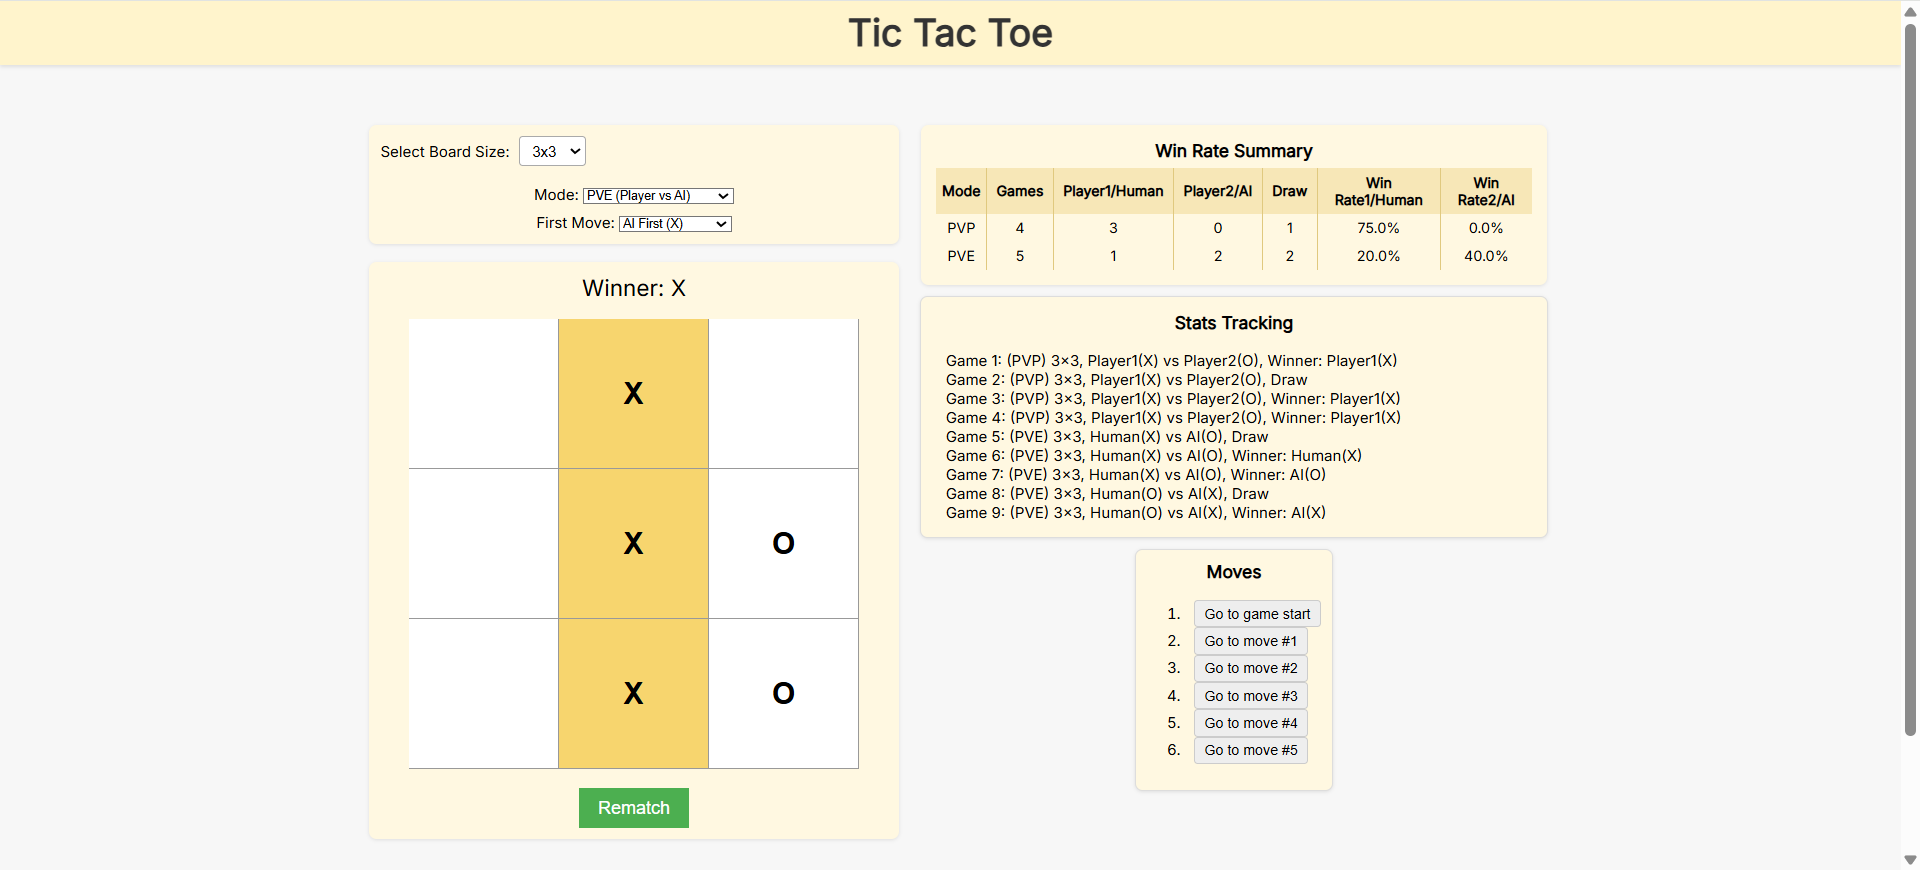
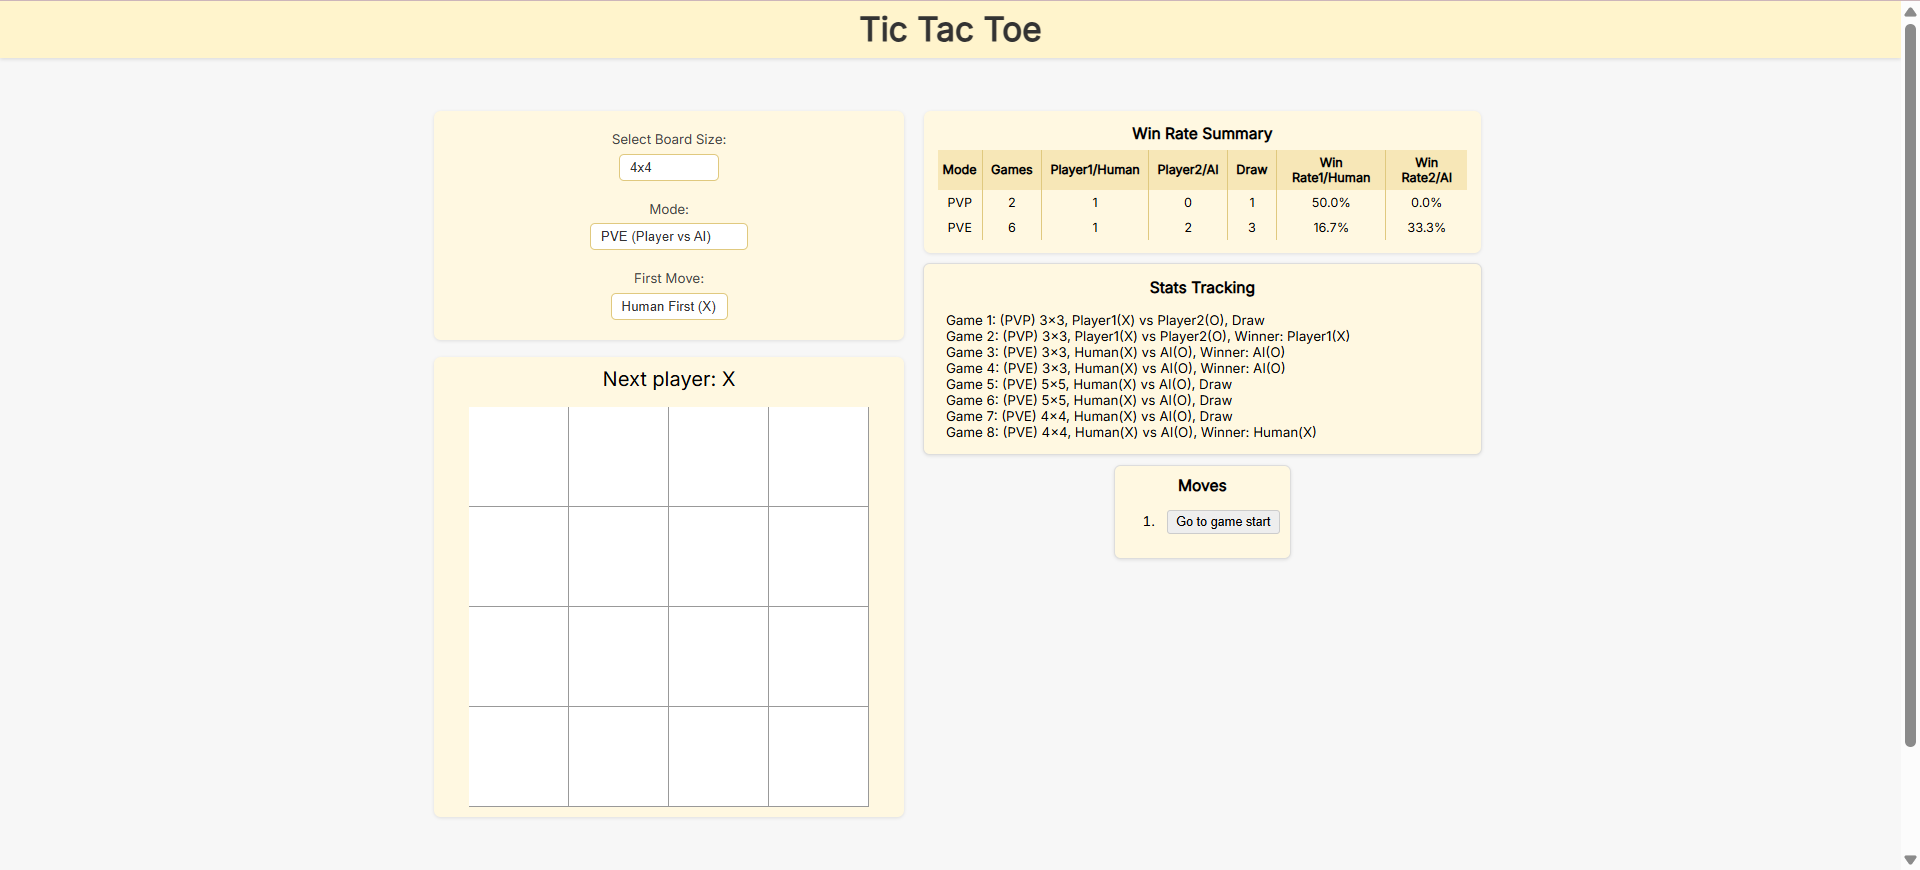
refactor: minor layout adjustments and updated UI preview images

diff --git a/src/App.jsx b/src/App.jsx
@@ -284,10 +284,11 @@ export default function Game() {
       {/* 上半部分：主游戏内容 */}
       <div className="game-top">
         <div className="game-settings">
-          <div className="board-size-selector">
+          <div className="setting-group">
             <label htmlFor="board-size">Select Board Size: </label>
             <select
               id="board-size"
+              className="setting-select"
               value={boardSize}
               onChange={(e) => handleBoardSizeChange(Number(e.target.value))}
             >
@@ -299,26 +300,26 @@ export default function Game() {
               <option value={8}>8x8</option>
             </select>
           </div>
-          <div className="mode-selector" style={{ marginTop: '10px' }}>
+          <div className="setting-group">
             <label htmlFor="mode">Mode: </label>
-            <select id="mode" value={mode} onChange={handleModeChange}>
+            <select id="mode" className="setting-select" value={mode} onChange={handleModeChange}>
               <option value="pvp">PVP (Player vs Player)</option>
               <option value="pve">PVE (Player vs AI)</option>
             </select>
           </div>
           {mode === 'pvp' && (
-            <div className="pvp-first-selector" style={{ marginTop: '10px' }}>
+            <div className="setting-group">
               <label htmlFor="pvp-first">First Move: </label>
-              <select id="pvp-first" value={pvpFirst} onChange={handlePvpFirstChange}>
+              <select id="pvp-first" className="setting-select" value={pvpFirst} onChange={handlePvpFirstChange}>
                 <option value="player1">Player1 (X)</option>
                 <option value="player2">Player2 (X)</option>
               </select>
             </div>
           )}
           {mode === 'pve' && (
-            <div className="pve-first-selector" style={{ marginTop: '10px' }}>
+            <div className="setting-group">
               <label htmlFor="pve-first">First Move: </label>
-              <select id="pve-first" value={pveFirst} onChange={handlePveFirstChange}>
+              <select id="pve-first" className="setting-select" value={pveFirst} onChange={handlePveFirstChange}>
                 <option value="human">Human First ({pveFirst === 'human' ? 'X' : 'O'})</option>
                 <option value="ai">AI First ({pveFirst === 'ai' ? 'X' : 'O'})</option>
               </select>

diff --git a/src/index.css b/src/index.css
@@ -288,6 +288,48 @@ body[data-board-size="5"] {
 .game-settings {
   flex: 1;
   min-width: 180px;
+  display: flex;
+  flex-direction: column;
+  justify-content: center;
+  align-items: center;
+  gap: 24px;
+  background-color: #fff8e1;
+  border-radius: 8px;
+  padding: 24px 12px;
+  box-shadow: 0 1px 4px rgba(0,0,0,0.1);
+}
+
+.setting-group {
+  display: flex;
+  flex-direction: column;
+  align-items: center;
+  gap: 6px;
+  width: 100%;
+}
+
+.setting-group label {
+  font-size: 1rem;
+  margin-bottom: 2px;
+  color: #444;
+}
+
+.setting-select {
+  font-size: 1rem;
+  padding: 6px 12px;
+  border-radius: 6px;
+  border: 1.5px solid #e0c97f;
+  background: #fff;
+  color: #333;
+  appearance: none;
+  outline: none;
+  box-shadow: none;
+  transition: border 0.2s;
+  min-width: 120px;
+  margin: 0;
+}
+
+.setting-select:focus {
+  border-color: #f7d56e;
 }
 
 .game-board-area {
